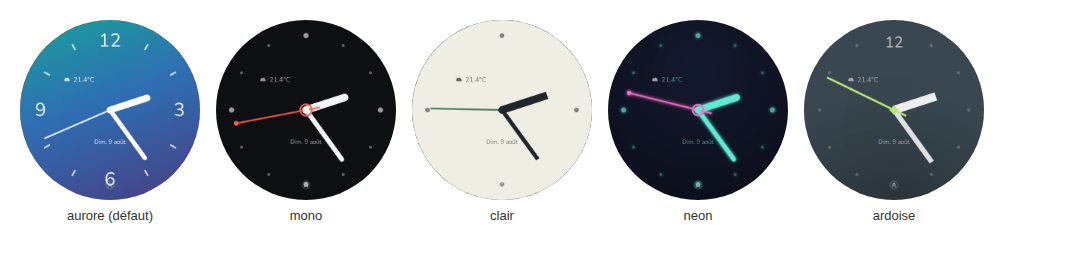
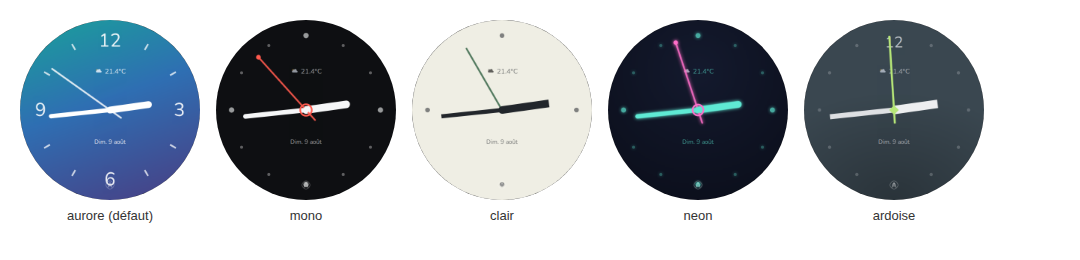
1.2.2: recentre la météo au-dessus du centre du cadran analogique
Repositionnée symétriquement à la date (en dessous), sur l'axe midi-6h,
plutôt que calée à gauche — retour utilisateur après test dans le
navigateur : rendu plus équilibré. Pas de changement de taille/couleur,
juste la position (left:22%/top:32% -> left:50%/top:27%, centrée comme
.analog-date au lieu d'un simple décalage vertical).

diff --git a/dist/echo-home-card.js b/dist/echo-home-card.js
@@ -567,7 +567,7 @@ const I = A.litElementPolyfillSupport;
 I == null || I({ LitElement: O });
 var ve;
 ((ve = A.litElementVersions) != null ? ve : A.litElementVersions = []).push("4.2.2");
-const Ee = "echo-home-card", Ye = "https://cdn.jsdelivr.net/npm/@meteocons/svg", _ = {
+const Ee = "echo-home-card", Xe = "https://cdn.jsdelivr.net/npm/@meteocons/svg", _ = {
   // --- Entités (aucune n'est requise — la carte fonctionne comme simple
   // horloge sans rien configurer du tout) ---
   satellite_entity: null,
@@ -626,7 +626,7 @@ const Ee = "echo-home-card", Ye = "https://cdn.jsdelivr.net/npm/@meteocons/svg",
   zoom: 1
   // facteur d'échelle manuel (CSS zoom), filet de rattrapage si
   // les tailles fluides ne suivent pas correctement sur un appareil donné
-}, Xe = {
+}, Ye = {
   "clear-night": "clear-night",
   cloudy: "cloudy",
   exceptional: "not-available",
@@ -643,13 +643,13 @@ const Ee = "echo-home-card", Ye = "https://cdn.jsdelivr.net/npm/@meteocons/svg",
   "windy-variant": "wind"
 };
 function ce(n, e) {
-  return n === "partlycloudy" ? e ? "partly-cloudy-night" : "partly-cloudy-day" : n === "sunny" && e ? "clear-night" : Xe[n] || "not-available";
+  return n === "partlycloudy" ? e ? "partly-cloudy-night" : "partly-cloudy-day" : n === "sunny" && e ? "clear-night" : Ye[n] || "not-available";
 }
 function ue(n, e) {
   if (e != null && e.base_url)
     return `${e.base_url.replace(/\/$/, "")}/${n}.svg`;
   const t = (e == null ? void 0 : e.style) || "fill";
-  return `${Ye}/${t}/${n}.svg`;
+  return `${Xe}/${t}/${n}.svg`;
 }
 function de(n, e, t) {
   return new Intl.DateTimeFormat(e, {
@@ -916,11 +916,11 @@ class V extends O {
     (e.key === "Enter" || e.key === " ") && (e.preventDefault(), this._navigateToWeather());
   }
   render() {
-    var Y, X;
+    var X, Y;
     if (!this._config || !this._hass) return u;
     const e = this._config, t = e.satellite_entity ? this._hass.states[e.satellite_entity] : void 0, s = this._isNightMode(t);
     this.classList.toggle("night", s);
-    const i = e.language || ((Y = this._hass.locale) == null ? void 0 : Y.language) || "en", r = e.time_format || ((X = this._hass.locale) == null ? void 0 : X.time_format) || "24", o = /* @__PURE__ */ new Date(), l = e.weather_entity ? this._hass.states[e.weather_entity] : void 0, a = e.layout === "round", c = a && this._clockFace === "analog", d = e.show_weather && !s && l && !["unavailable", "unknown"].includes(l.state) && l.attributes.temperature != null, h = d && !c, p = e.show_date && !s, g = c && !s ? null : this._backgroundValue(t, s), $ = c ? W[e.analog_style] || W[Qe] : null, Ce = this._cardStyle(
+    const i = e.language || ((X = this._hass.locale) == null ? void 0 : X.language) || "en", r = e.time_format || ((Y = this._hass.locale) == null ? void 0 : Y.time_format) || "24", o = /* @__PURE__ */ new Date(), l = e.weather_entity ? this._hass.states[e.weather_entity] : void 0, a = e.layout === "round", c = a && this._clockFace === "analog", d = e.show_weather && !s && l && !["unavailable", "unknown"].includes(l.state) && l.attributes.temperature != null, h = d && !c, p = e.show_date && !s, g = c && !s ? null : this._backgroundValue(t, s), $ = c ? W[e.analog_style] || W[Qe] : null, Ce = this._cardStyle(
       g,
       $ ? `--_analog-default-bg:${$.background}` : null
     );
@@ -1528,15 +1528,16 @@ D(V, "properties", {
 
     /* Positions choisies pour rester dans la partie du cadran non
        balayée par les chiffres (radius ~40-41 sur un viewBox 0-100, cf.
-       analog-styles.js) : la météo se love entre 10h et 11h, la date
-       juste sous le centre — les aiguilles peuvent passer dessus sans
-       gêner la lecture, comme un guichet de date sur une montre
-       mécanique. */
+       analog-styles.js) : la météo juste au-dessus du centre, la date
+       juste en dessous — symétriques sur l'axe midi-6h plutôt que la
+       météo calée à gauche, pour un rendu plus équilibré. Les aiguilles
+       peuvent passer dessus sans gêner la lecture, comme un guichet de
+       date sur une montre mécanique. */
     .analog-weather {
       position: absolute;
-      left: 22%;
-      top: 32%;
-      transform: translateY(-50%);
+      left: 50%;
+      top: 27%;
+      transform: translate(-50%, -50%);
       display: flex;
       align-items: center;
       gap: 0.3em;

diff --git a/src/echo-home-card.js b/src/echo-home-card.js
@@ -963,15 +963,16 @@ class EchoHomeCard extends LitElement {
 
     /* Positions choisies pour rester dans la partie du cadran non
        balayée par les chiffres (radius ~40-41 sur un viewBox 0-100, cf.
-       analog-styles.js) : la météo se love entre 10h et 11h, la date
-       juste sous le centre — les aiguilles peuvent passer dessus sans
-       gêner la lecture, comme un guichet de date sur une montre
-       mécanique. */
+       analog-styles.js) : la météo juste au-dessus du centre, la date
+       juste en dessous — symétriques sur l'axe midi-6h plutôt que la
+       météo calée à gauche, pour un rendu plus équilibré. Les aiguilles
+       peuvent passer dessus sans gêner la lecture, comme un guichet de
+       date sur une montre mécanique. */
     .analog-weather {
       position: absolute;
-      left: 22%;
-      top: 32%;
-      transform: translateY(-50%);
+      left: 50%;
+      top: 27%;
+      transform: translate(-50%, -50%);
       display: flex;
       align-items: center;
       gap: 0.3em;

diff --git a/README.md b/README.md
@@ -245,8 +245,9 @@ retombe sur son traitement habituel (fond quasi noir, peu de lumière
 Comme en digital, `show_weather`/`show_date` affichent la météo (icône +
 température de `weather_entity`) et la date sur le cadran analogique — en
 plus discret, à la manière d'un guichet de date sur une montre
-mécanique : la météo se love entre 10h et 11h, la date juste sous le
-centre, chacune dans la couleur du style choisi.
+mécanique : la météo juste au-dessus du centre, la date juste en
+dessous, symétriques sur l'axe midi-6h, chacune dans la couleur du style
+choisi.
 
 ![Météo et date sur les cinq styles](docs/screenshot-round-analog-complications.png)
 

diff --git a/CHANGELOG.md b/CHANGELOG.md
@@ -1,5 +1,13 @@
 # Changelog
 
+## 1.2.2
+
+- Météo recentrée au-dessus du centre du cadran analogique (au lieu de
+  calée à gauche en 1.2.1) — symétrique avec la date en dessous, sur
+  l'axe midi-6h : rendu plus équilibré, moins comme une info plaquée
+  dans un coin. Position choisie après retour en conditions réelles
+  ("dans le navigateur") plutôt qu'en aperçu statique.
+
 ## 1.2.1
 
 - **Météo et date sur le cadran analogique**, en complication discrète
